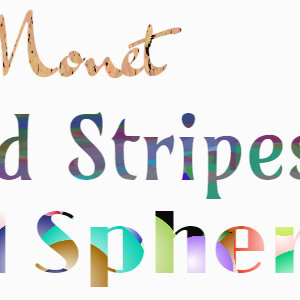
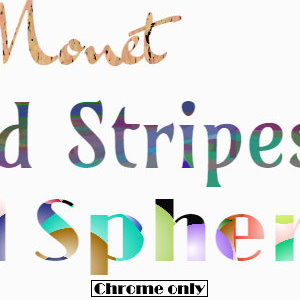
begin map rework

diff --git a/src/css/main.scss b/src/css/main.scss
@@ -290,80 +290,92 @@ section{
 }
 area{
   outline: none;
-  &:focus::after,
-  &:hover::after{
-    position: absolute;
-    content: attr(alt);
-    color: #30511d;
-    font-size: 1.6em;
-    width: 100px;
-  }
-  &:focus:nth-child(2)::after,
-  &:hover:nth-child(2)::after{
-    top: 98px;
-    right: 12px;
-    @media #{$two_col}{
-      top: 185px;
-      right: -116px;
-    }
-  }
-  &:focus:nth-child(3)::before,
-  &:hover:nth-child(3)::before{
-    position: absolute;
-    color: #30511d;
-    font-size: 1em;
-    width: 100px;
-    top: 449px;
-    left: 30px;
-    content: 'chrome only';
-    @media #{$two_col}{
-      top: 432px;
-      left: 30px;
-    }
-  }
-  &:focus:nth-child(3)::after,
-  &:hover:nth-child(3)::after{
-    top: 423px;
-    left: 37px;
-    @media #{$two_col}{
-      top: 335px;
-      left: -92px;
-    }
-  }
-  &:focus:nth-child(4)::after,
-  &:hover:nth-child(4)::after{
-    top: 423px;
-    right: 12px;
-    @media #{$two_col}{
-      top: 335px;
-      right: -116px;
-    }
-  }
+  // &:focus::after,
+  // &:hover::after{
+  //   position: absolute;
+  //   content: attr(alt);
+  //   color: #30511d;
+  //   font-size: 1.6em;
+  //   width: 100px;
+  // }
+  // &:focus:nth-child(2)::after,
+  // &:hover:nth-child(2)::after{
+  //   top: 98px;
+  //   right: 12px;
+  //   @media #{$two_col}{
+  //     top: 185px;
+  //     right: -116px;
+  //   }
+  // }
+  // &:focus:nth-child(3)::before,
+  // &:hover:nth-child(3)::before{
+  //   position: absolute;
+  //   color: #30511d;
+  //   font-size: 1em;
+  //   width: 100px;
+  //   top: 449px;
+  //   left: 30px;
+  //   content: 'chrome only';
+  //   @media #{$two_col}{
+  //     top: 432px;
+  //     left: 30px;
+  //   }
+  // }
+  // &:focus:nth-child(3)::after,
+  // &:hover:nth-child(3)::after{
+  //   top: 423px;
+  //   left: 37px;
+  //   @media #{$two_col}{
+  //     top: 335px;
+  //     left: -92px;
+  //   }
+  // }
+  // &:focus:nth-child(4)::after,
+  // &:hover:nth-child(4)::after{
+  //   top: 423px;
+  //   right: 12px;
+  //   @media #{$two_col}{
+  //     top: 335px;
+  //     right: -116px;
+  //   }
+  // }
 }
-map[name="shapes_images"] area:focus:nth-child(1)::after,
-map[name="shapes_images"] area:hover:nth-child(1)::after{
-  top: 98px;
-  left: 37px;
-  @media #{$two_col}{
-    top: 185px;
-    left: -92px;
-  }
+:root{
+  --rotation: 0deg;
+
 }
-map[name="knockout"] area:focus::after,
-map[name="knockout"] area:hover::after{
-  width: 100%;
-  text-align: center;
-  bottom: -20px;
-}
-map[name="knockout"] area:focus::before,
-map[name="knockout"] area:hover::before{
-  width: 100%;
+
+map[name="shapes_images"]::before{
+  content: url('../images/highlight.png');
+  transform: rotate(var(--rotation));
   position: absolute;
-  color: #30511d;
-  content: 'chrome only';
-  text-align: center;
-  bottom: -35px;
 }
+
+
+// map[name="shapes_images"] area:focus:nth-child(1)::after,
+// map[name="shapes_images"] area:hover:nth-child(1)::after{
+//   top: 98px;
+//   left: 37px;
+//   @media #{$two_col}{
+//     top: 185px;
+//     left: -92px;
+//   }
+// }
+// map[name="knockout"] area:focus::after,
+// map[name="knockout"] area:hover::after{
+//   width: 100%;
+//   text-align: center;
+//   bottom: -20px;
+// }
+// map[name="knockout"] area:focus::before,
+// map[name="knockout"] area:hover::before{
+//   width: 100%;
+//   position: absolute;
+//   color: #30511d;
+//   content: 'chrome only';
+//   text-align: center;
+//   bottom: -35px;
+// }
 .contact{
   @include flex(column, space-between, center);
   margin: 0 auto;

diff --git a/src/html/index.html b/src/html/index.html
@@ -65,13 +65,13 @@
         <div class="arts">
           <div id="art_paint_one">
             <a rel="noopener noreferrer" href="https://dev.to/jamessouth/generating-shapes-and-images-with-the-css-paint-houdini-api-29c">Generating Shapes and Images with the CSS Paint (Houdini) API</a>
-            <map name="shapes_images">
-              <area rel="noopener noreferrer" shape="rect" coords="0,0,150,150" href="https://jamessouth.github.io/paint-demo/demo1.html" alt="demo 1">
-              <area rel="noopener noreferrer" shape="rect" coords="150,0,300,150" href="https://jamessouth.github.io/paint-demo/demo2.html" alt="demo 2">
-              <area rel="noopener noreferrer" shape="rect" coords="0,150,150,300" href="https://jamessouth.github.io/paint-demo/demo3.html" alt="demo 3">
-              <area rel="noopener noreferrer" shape="rect" coords="150,150,300,300" href="https://jamessouth.github.io/paint-demo/demo4.html" alt="demo 4">
-            </map>
-            <img usemap="#shapes_images" alt="4 colorful patterns">
+            <div>
+              <a rel="noopener noreferrer" href="https://jamessouth.github.io/paint-demo/demo1.html"><img alt="demo 1"/></a>
+              <a rel="noopener noreferrer" href="https://jamessouth.github.io/paint-demo/demo2.html"><img alt="demo 2"/></a>
+              <a rel="noopener noreferrer" href="https://jamessouth.github.io/paint-demo/demo3.html"><img alt="demo 3"/></a>
+              <a rel="noopener noreferrer" href="https://jamessouth.github.io/paint-demo/demo4.html"><img alt="demo 4"/></a>
+            </div>
+
           </div>
           <div id="art_paint_two">
             <a rel="noopener noreferrer" href="https://dev.to/jamessouth/generating-knockout-text-with-the-css-paint-houdini-api-2lac">Generating Knockout Text with the CSS Paint (Houdini) API</a>

diff --git a/src/js/index.js b/src/js/index.js
@@ -12,7 +12,28 @@ const headerAnchors = document.querySelectorAll('li a');
 const projectDivs = document.querySelectorAll('.projects div');
 const contactDivs = document.querySelectorAll('.contact div');
 const articles = document.querySelectorAll('.arts > div');
+const firstArtDemos = document.querySelectorAll('map[name="shapes_images"] area');
 let asideNotBuilt = true;
+
+// console.log(firstArtDemos);
+
+
+firstArtDemos.forEach((area) => {
+  // console.log(area);
+  area.addEventListener('focus', function (e) {
+    // console.log(this);
+    const demo = parseInt(this.getAttribute('alt').match(/\d/)[0], 10) - 1;
+    document.documentElement.style.setProperty('--rotation', `${demo * 90}deg`);
+  });
+});
+
+
+
+
+
+
+
+
 
 openModalBtn.addEventListener('click', () => {
   if (asideNotBuilt) {

diff --git a/src/css/fallback.scss b/src/css/fallback.scss
@@ -70,26 +70,8 @@
     letter-spacing: -1px;
     &::before,
     &::after{
-      display: none;
+      display: none;// hide quotes in edge because it underlines them
     }
-  }
-  map[name="shapes_images"]::before{
-    content: 'demo 3 is chrome only';
-    font-family: 'Scheherazade', serif;
-    width: 100%;
-    font-size: 20px;
-    position: absolute;
-    text-align: center;
-    top: 88px;
-  }
-  map[name="knockout"]::before{
-    content: 'chrome only';
-    font-family: 'Scheherazade', serif;
-    width: 100%;
-    font-size: 20px;
-    position: absolute;
-    text-align: center;
-    top: 88px;
   }
   map + img{
     border: 2px solid transparent;
